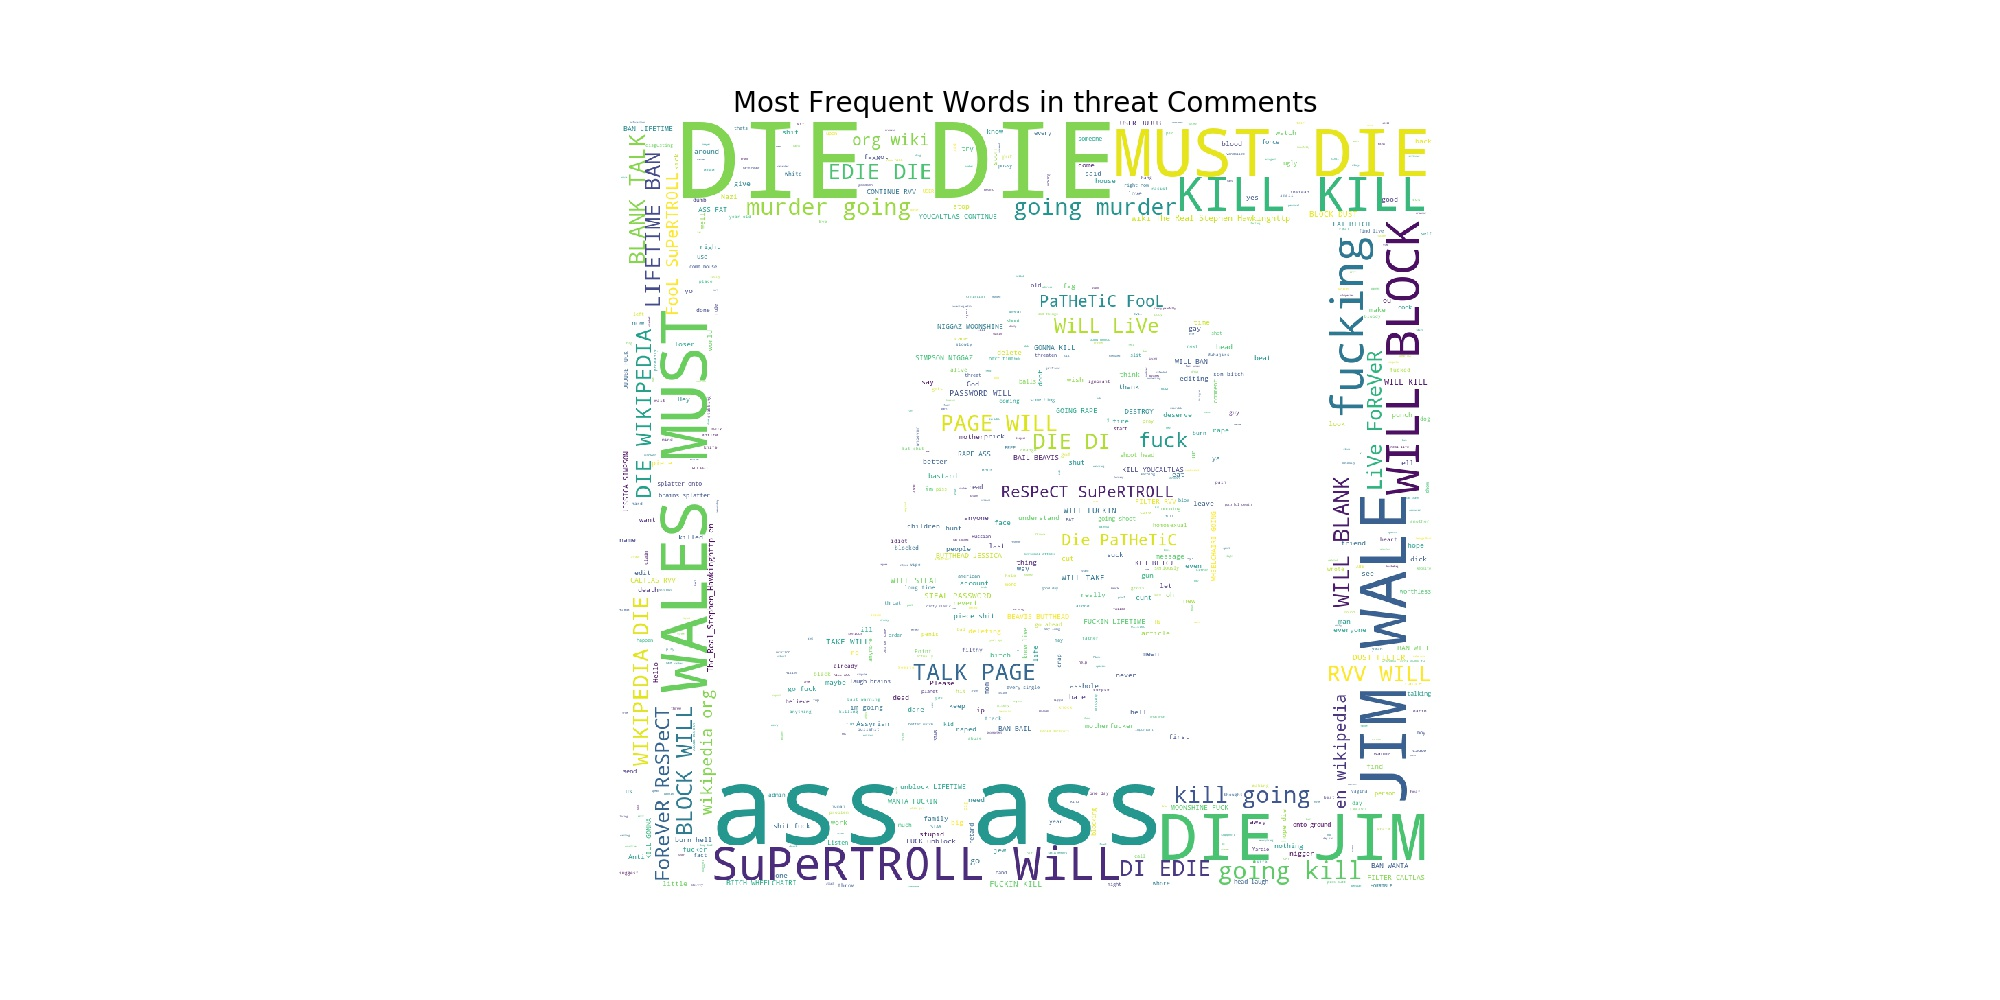
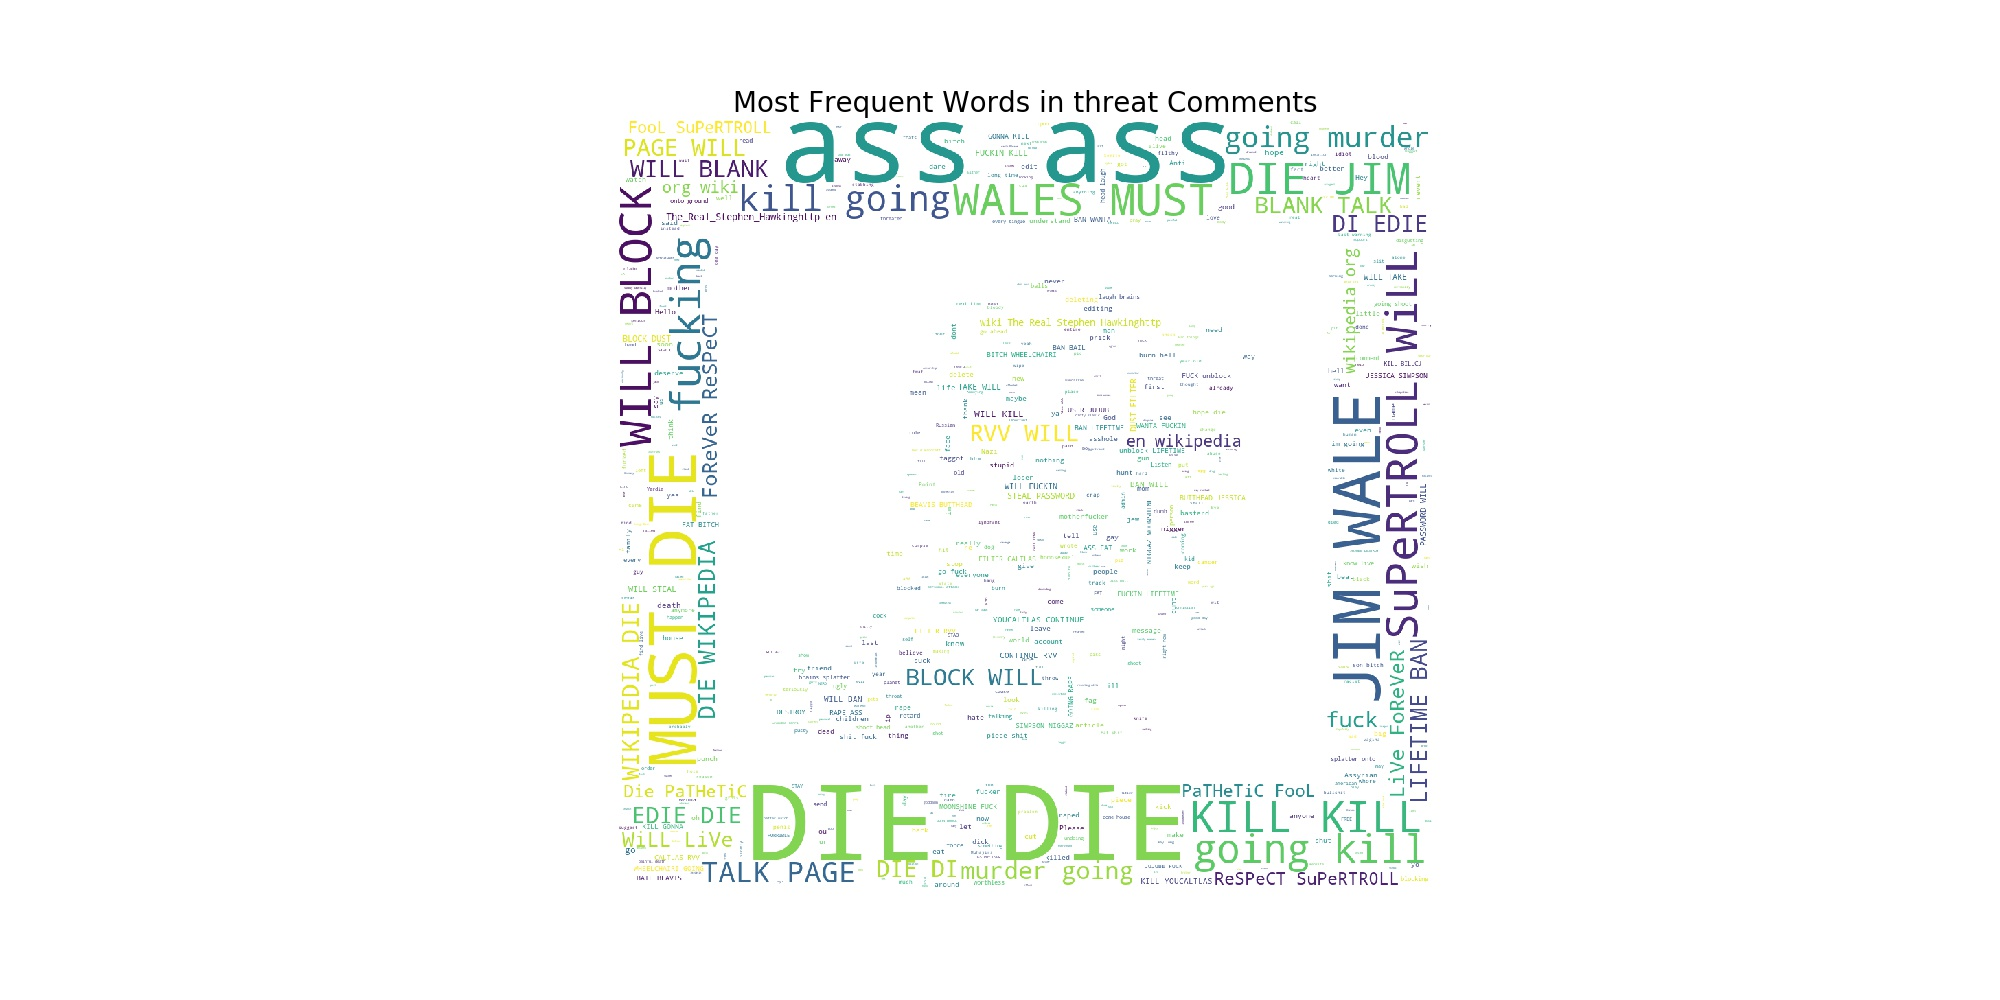
properly added progressbar. added logic for gathering nasty words

Changed region(s): [[0.31, 0.124, 0.713, 0.899], [0.403, 0.279, 0.62, 0.744]]

diff --git a/src/feature_engineering/FeaturesFromContent.py b/src/feature_engineering/FeaturesFromContent.py
@@ -6,6 +6,8 @@ Created on Apr 4, 2018
 import os
 import pickle
 import pandas as pd
+import progressbar
+progressbar.streams.flush()
 from processor.TextProcessors import TextAnalyzer
 
 class DirectFeatures(object):
@@ -27,10 +29,16 @@ class DirectFeatures(object):
         
         self._direct_save_path='../../data/cleaned/direct_features.csv'
         if os.path.exists(self._direct_save_path):
-            self._direct_features=pd.read_csv(self._direct_save_path)
-            
+            if 'purge' in params:
+                if not params['purge']:
+                    self._direct_features=pd.read_csv(self._direct_save_path)
+                else:
+                    os.remove(self._direct_save_path)
+            else:
+                self._direct_features=pd.read_csv(self._direct_save_path)
+                
         if 'nasty_path' in params:
-            with open(params['nasties'],'rb') as nasty:
+            with open(params['nasty_path'],'rb') as nasty:
                 self.nasties = pickle.load(nasty)
         
         if 'nasties' in params:
@@ -42,11 +50,12 @@ class DirectFeatures(object):
             self._direct_features = pd.concat([self._train.iloc[:,1:3],self._test.iloc[:,1:3]])
             self._direct_features=self._direct_features.reset_index(drop=True)
     
+        bar = progressbar.ProgressBar(widgets=[' [', progressbar.Timer(), '] ',progressbar.Bar(),' (', progressbar.ETA(), ') ',])
         ta=TextAnalyzer({})
-        for index, row in self._direct_features.iterrows():
-            row = row.copy()
+        for index in bar(range(len(self._direct_features))):
+            row=self._direct_features.loc[index]
             comment=row.comment_text
-            num_sentences,num_words,num_unique_words,num_letters,num_punctuations,num_uppers,num_titles,num_stops,mean_length,num_nasties = ta.get_metrics(comment,self.nasties)
+            num_sentences,num_words,num_unique_words,num_letters,num_punctuations,num_uppers,num_titles,num_stops,mean_length,num_nasties,num_emojis = ta.get_metrics(comment,self.nasties)
             self._direct_features.loc[index, 'number_of_sentences'] = num_sentences
             self._direct_features.loc[index, 'number_of_words'] = num_words
             self._direct_features.loc[index, 'number_of_unique_words'] = num_unique_words
@@ -57,10 +66,12 @@ class DirectFeatures(object):
             self._direct_features.loc[index, 'number_of_stop_words'] = num_stops
             self._direct_features.loc[index, 'mean_length_of_words'] = mean_length
             self._direct_features.loc[index, 'number_of_nasty_words'] = num_nasties
+            self._direct_features.loc[index, 'number_of_emojis'] = num_emojis
             self._direct_features.loc[index, 'percentage_of_unique_words'] = (100*num_unique_words/num_words)
             self._direct_features.loc[index, 'percentage_of_punctuations'] = (100*num_punctuations/num_words)
             self._direct_features.loc[index, 'percentage_of_nasty_words'] = (100*num_nasties/num_words)
-            print('done for {}'.format(index))
+            self._direct_features.loc[index, 'percentage_of_emojis'] = (100*num_emojis/num_words)
+        
         self._direct_features.to_csv(self._direct_save_path)
     
     def get_direct_features(self):

diff --git a/src/feature_engineering/PlotFeatures.py b/src/feature_engineering/PlotFeatures.py
@@ -39,31 +39,31 @@ class FeaturePlotter(object):
         train_tags=train.iloc[:,2:]
         train_feats=pd.concat([train_feats,train_tags],axis=1)
         
-        train_feats['count_sent'].loc[train_feats['count_sent']>10] = 10 
+        train_feats['number_of_sentences'].loc[train_feats['number_of_sentences']>10] = 10 
         plt.figure(figsize=(12,6))
 
         plt.subplot(121)
         plt.suptitle("Toxicity With Respect To Number Of Words",fontsize=20)
-        sns.violinplot(y='count_sent',x='clean', data=train_feats,split=True)
+        sns.violinplot(y='number_of_sentences',x='clean', data=train_feats,split=True)
         plt.xlabel('Clean?', fontsize=12)
         plt.ylabel('# of sentences', fontsize=12)
         plt.title("Number of sentences in each comment", fontsize=15)
         # words
-        train_feats['count_word'].loc[train_feats['count_word']>200] = 200
+        train_feats['number_of_words'].loc[train_feats['number_of_words']>200] = 200
         plt.subplot(122)
-        sns.violinplot(y='count_word',x='clean', data=train_feats,split=True,inner="quart")
+        sns.violinplot(y='number_of_words',x='clean', data=train_feats,split=True,inner="quart")
         plt.xlabel('Clean?', fontsize=12)
         plt.ylabel('# of words', fontsize=12)
         plt.title("Number of words in each comment", fontsize=15)
         plt.savefig(self.save_path+'Toxicity_With_Respect_To_Number_Of_Words')
         plt.show()
         
-        train_feats['count_unique_word'].loc[train_feats['count_unique_word']>200] = 200
+        train_feats['number_of_unique_words'].loc[train_feats['number_of_unique_words']>200] = 200
         #prep for split violin plots
         #For the desired plots , the data must be in long format
-        temp_df = pd.melt(train_feats, value_vars=['count_word', 'count_unique_word'], id_vars='clean')
+        temp_df = pd.melt(train_feats, value_vars=['number_of_words', 'number_of_unique_words'], id_vars='clean')
         #spammers - comments with less than 40% unique words
-        spammers=train_feats[train_feats['word_unique_percent']<30]
+        spammers=train_feats[train_feats['percentage_of_unique_words']<30]
         plt.figure(figsize=(16,12))
         plt.suptitle("What's so unique ?",fontsize=20)
         gridspec.GridSpec(2,2)
@@ -75,9 +75,9 @@ class FeaturePlotter(object):
         
         plt.subplot2grid((2,2),(0,1))
         plt.title("Percentage of unique words of total words in comment")
-        #sns.boxplot(x='clean', y='word_unique_percent', data=train_feats)
-        ax=sns.kdeplot(train_feats[train_feats.clean == 0].word_unique_percent, label="Bad",shade=True,color='r')
-        ax=sns.kdeplot(train_feats[train_feats.clean == 1].word_unique_percent, label="Clean")
+        #sns.boxplot(x='clean', y='percentage_of_unique_words', data=train_feats)
+        ax=sns.kdeplot(train_feats[train_feats.clean == 0].percentage_of_unique_words, label="Bad",shade=True,color='r')
+        ax=sns.kdeplot(train_feats[train_feats.clean == 1].percentage_of_unique_words, label="Clean")
         plt.legend()
         plt.ylabel('Number of occurances', fontsize=12)
         plt.xlabel('Percent unique words', fontsize=12)

diff --git a/src/explore/WordCloudGenerator.py b/src/explore/WordCloudGenerator.py
@@ -7,6 +7,8 @@ import numpy.core.multiarray as np
 import matplotlib.pyplot as plt
 import pandas as pd
 import pickle
+import progressbar
+progressbar.streams.flush()
 from wordcloud import WordCloud ,STOPWORDS
 from PIL import Image
 
@@ -35,16 +37,27 @@ class Clouder(object):
         self.nasty_path='../../data/nasties.pkl'
     
     def generate_word_clouds(self):
-        for cat in self.categories:
+        
+        bar = progressbar.ProgressBar(widgets=[' [', progressbar.Timer(), '] ',progressbar.Bar(),' (', progressbar.ETA(), ') ',])
+        nasty_list=[]
+        clean_set=set()
+        for index in bar(range(len(self.categories))):
+            cat=self.categories[index]
+            current_nasty=set()
             clean_mask=np.array(Image.open('../../data/images/mask.jpg'))
             #clean_mask=clean_mask[:,:,1]
             #wordcloud for clean comments
             subset=self.train.loc[self.train[cat]==1]
             text=subset.comment_text.values
-            if cat!='clean':
-                for word in text:
-                    self.nasties.add(word)
-                    
+            for sentence in text:
+                for word in sentence.split():
+                    if cat!='clean':
+                        current_nasty.add(word.lower())
+                    else:
+                        clean_set.add(word.lower())
+                if len(current_nasty)>0:
+                    nasty_list.append(current_nasty)
+                
             wc= WordCloud(background_color="white",max_words=2000,mask=clean_mask,stopwords=self.mystops)
             wc.generate(" ".join(text))
             plt.figure(figsize=(20,10))
@@ -53,7 +66,10 @@ class Clouder(object):
             plt.imshow(wc.recolor(colormap= 'viridis' , random_state=17), alpha=0.98)
             plt.savefig('../../results/figures/'+cat+'_wordcloud.jpg')
             #plt.show()
-            pickle.dump(self.nasties,self.nasty_path,pickle.HIGHEST_PROTOCOL)
+        
+        self.nasties=set.intersection(*nasty_list).difference(clean_set)
+        with open(self.nasty_path,'wb') as nasty_out:
+            pickle.dump(self.nasties,nasty_out,pickle.HIGHEST_PROTOCOL)
     
     def get_nasties(self):
         return self.nasties

diff --git a/src/processor/TextProcessors.py b/src/processor/TextProcessors.py
@@ -6,7 +6,10 @@ Created on Apr 4, 2018
 import nltk
 import string
 import numpy as np
+import emoji
+import re
 from nltk.corpus import stopwords
+
 class TextAnalyzer(object):
     '''
     Class for analyzing certain properties of text
@@ -31,11 +34,13 @@ class TextAnalyzer(object):
         total_stopwords=0
         mean_length_of_words=0;
         num_nasties=0
+        num_emojis=0
         for sentence in sentence_list:
             words = nltk.word_tokenize(sentence)
             mean_length_of_words=mean_length_of_words+np.mean([len(w) for w in words])
             unique_words.update(words)
             total_words=total_words+len(words)
+            num_emojis=num_emojis+self.extract_emojis(sentence)
             for word in words:
                 total_letters=total_letters+len(word)
                 if word.isupper():
@@ -47,6 +52,18 @@ class TextAnalyzer(object):
                 if word in self.my_stopwords:
                     total_stopwords=total_stopwords+1
                 if nasties is not None and len(nasties)>0:
-                    num_nasties=num_nasties+1
+                    if word.lower() in nasties and word not in string.punctuation and word.lower() not in self.my_stopwords:
+                        num_nasties=num_nasties+1
         
-        return len(sentence_list),total_words,len(unique_words),total_letters,total_punctuations,total_upper_case_words,total_title_words,total_stopwords,mean_length_of_words,num_nasties
+        return len(sentence_list),total_words,len(unique_words),total_letters,total_punctuations,total_upper_case_words,total_title_words,total_stopwords,mean_length_of_words,num_nasties,num_emojis
+    
+    def extract_emojis(self,sentence):
+        emoji_list = []
+
+        data = re.findall(r'[^a-zA-Z\d\s\n]', sentence)
+        for word in data:
+            if word not in string.punctuation and len(word)>0:
+                emoji_list.append(word)
+        if len(emoji_list)>0:
+            print('Found emojis ',emoji_list)
+        return len(emoji_list)

diff --git a/src/hub/Driver.py b/src/hub/Driver.py
@@ -3,14 +3,15 @@ Created on Apr 5, 2018
 
 @author: abhijit.tomar
 '''
-from feature_engineering.FeaturesFromContent import DirectFeatures
-from feature_engineering.PlotFeatures import FeaturePlotter
 from explore.WordCloudGenerator import Clouder
+from feature_engineering.PlotFeatures import FeaturePlotter
+from feature_engineering.FeaturesFromContent import DirectFeatures
+
 if __name__ == '__main__':
     
     cloud = Clouder({'train':'../../data/cleaned/train.csv','test':'../../data/cleaned/test.csv'})
     cloud.generate_word_clouds()
-    direct = DirectFeatures({'train':'../../data/cleaned/train.csv','test':'../../data/cleaned/test.csv','nasties':cloud.get_nasties()})
+    direct = DirectFeatures({'purge':True,'train':'../../data/cleaned/train.csv','test':'../../data/cleaned/test.csv','nasty_path':'../../data/nasties.pkl'})
     direct.generate_direct_features()
     feat_plot = FeaturePlotter({'direct':direct})
     feat_plot.generate_plots_for_direct_features()
